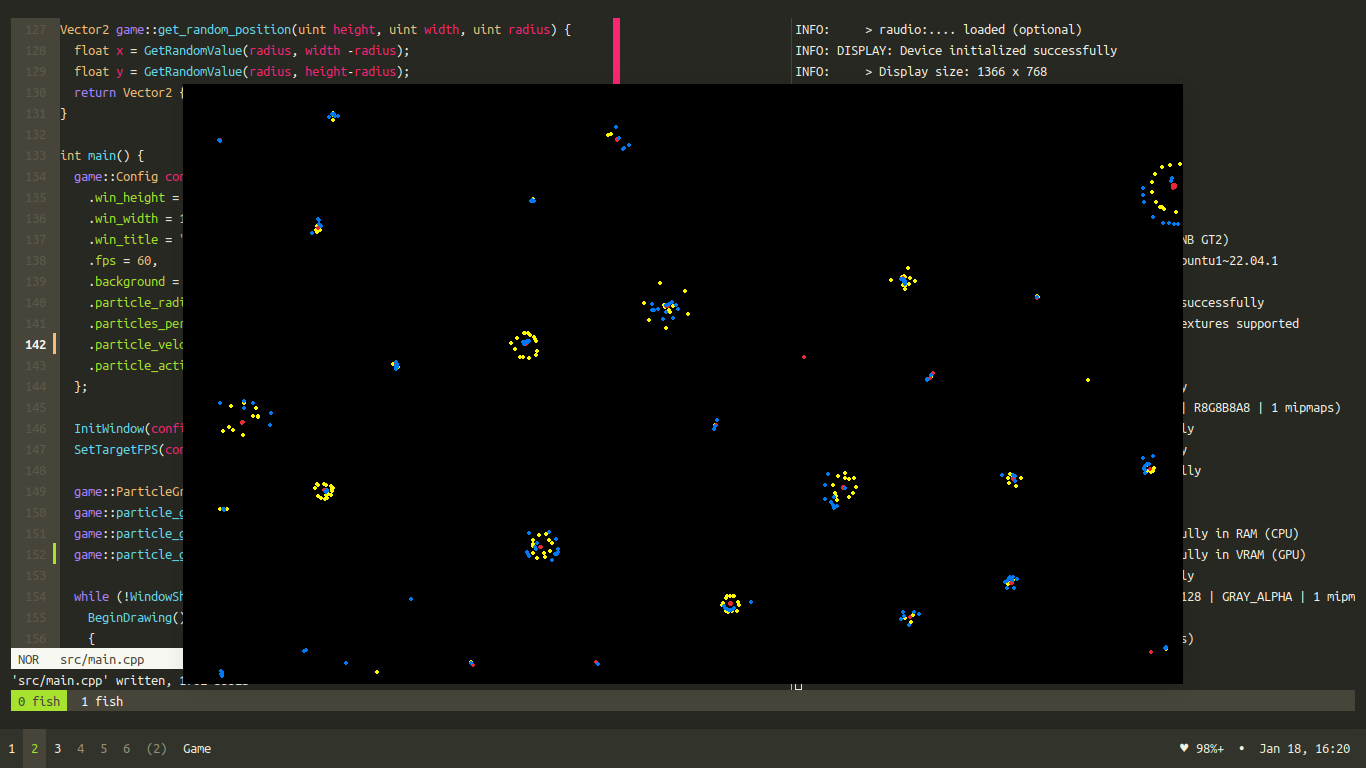
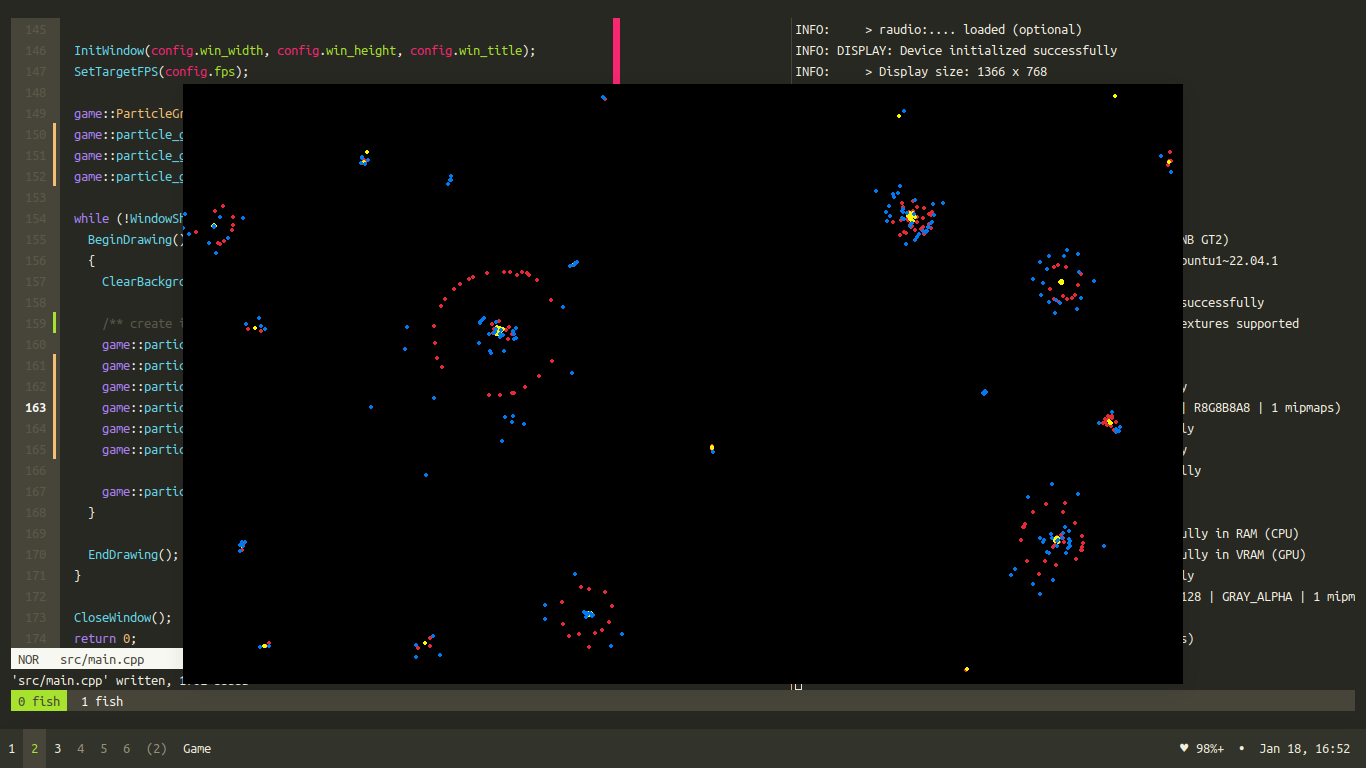
updated screenshots

diff --git a/src/main.cpp b/src/main.cpp
@@ -147,8 +147,8 @@ int main() {
 	SetTargetFPS(config.fps);
 
 	game::ParticleGroups particle_groups;
-	game::particle_group_new(particle_groups[0], config, YELLOW);	
-	game::particle_group_new(particle_groups[1], config, RED);
+	game::particle_group_new(particle_groups[0], config, RED);	
+	game::particle_group_new(particle_groups[1], config, YELLOW);
 	game::particle_group_new(particle_groups[2], config, BLUE);
 
 	while (!WindowShouldClose()) {
@@ -158,10 +158,10 @@ int main() {
 
 			/** create inter-group interactivity */
 			game::particle_groups_update(particle_groups[0], particle_groups[0], 0.02, config);
-			game::particle_groups_update(particle_groups[0], particle_groups[1], -0.3, config);
-			game::particle_groups_update(particle_groups[1], particle_groups[1], -0.02, config);
-			game::particle_groups_update(particle_groups[2], particle_groups[0], -0.1, config);
-			game::particle_groups_update(particle_groups[2], particle_groups[1], -0.5, config);
+			game::particle_groups_update(particle_groups[0], particle_groups[1], -0.5, config);
+			game::particle_groups_update(particle_groups[1], particle_groups[1], -0.04, config);
+			game::particle_groups_update(particle_groups[2], particle_groups[0], -0.02, config);
+			game::particle_groups_update(particle_groups[2], particle_groups[1], -0.7, config);
 			game::particle_groups_update(particle_groups[2], particle_groups[2], 0.02, config);
 
 			game::particle_groups_render(particle_groups, config);
